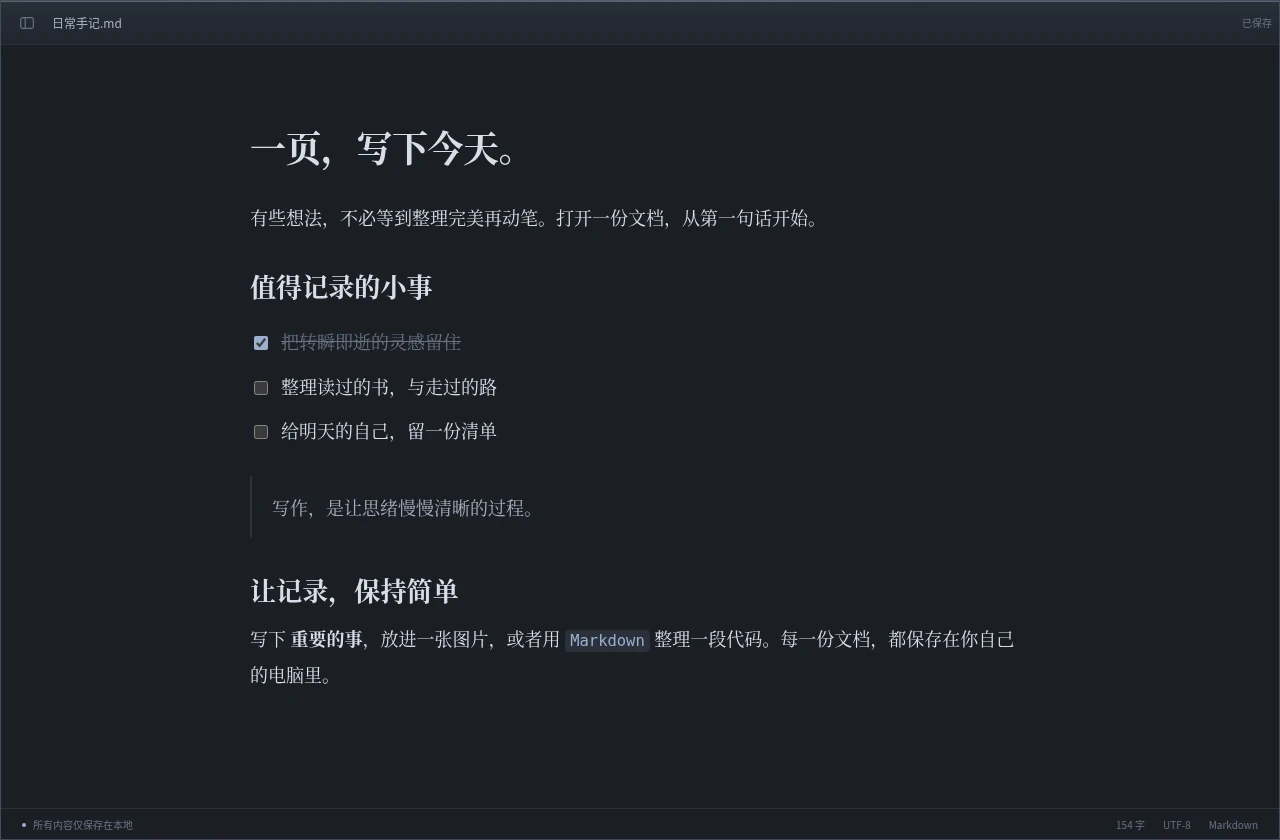
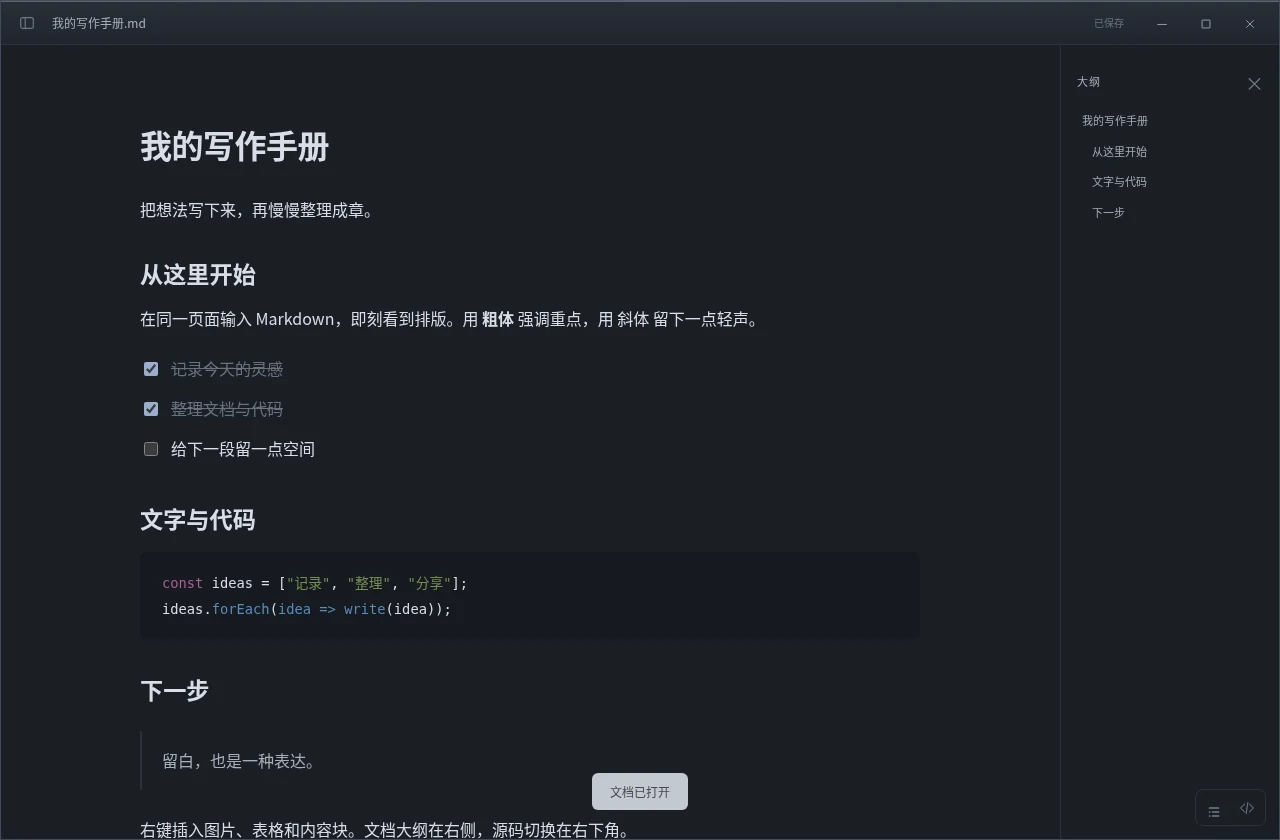
Update Windows 0.8.0 downloads and workspace previews

diff --git a/index.html b/index.html
@@ -4,7 +4,7 @@
   <meta charset="UTF-8">
   <meta name="viewport" content="width=device-width, initial-scale=1">
   <meta name="theme-color" content="#f8f7f3">
-  <meta name="description" content="手书 Tekaku，简洁、离线优先的 Windows 与 Android Markdown 编辑器。边写边呈现，支持图片、表格、代码高亮与多种皮肤。便携下载包约 1.8 MB。">
+  <meta name="description" content="手书 Tekaku，简洁、离线优先的 Windows 与 Android Markdown 编辑器。边写边呈现，支持图片、表格、代码高亮与多种皮肤。便携下载包约 1.9 MB。">
   <meta property="og:type" content="website">
   <meta property="og:title" content="手书 Tekaku · 给想法一张纸">
   <meta property="og:description" content="轻一点的 Markdown 编辑器。打开，写下，保存。在 Windows 和 Android 上写作，文档留在本地。">
@@ -54,11 +54,11 @@
 
   <main id="main">
     <section class="hero container" aria-labelledby="hero-title">
-      <a class="release-pill" href="#release"><span class="release-dot" aria-hidden="true"></span><span>0.7.0 已发布</span><span class="pill-divider"></span><span>手机也能，随手写</span><span aria-hidden="true">↗</span></a>
+      <a class="release-pill" href="#release"><span class="release-dot" aria-hidden="true"></span><span>0.8.0 已发布</span><span class="pill-divider"></span><span>右键插入，顺手编辑</span><span aria-hidden="true">↗</span></a>
       <h1 id="hero-title">给想法，<span class="hero-accent">一张纸。<svg viewBox="0 0 360 17" aria-hidden="true"><path d="M4 11C88 2 206 1 354 8M82 15c97-7 176-9 250-4"/></svg></span></h1>
       <p class="hero-description">一个轻巧、安静的 Markdown 编辑器。<br>边写边呈现，让注意力回到文字本身。</p>
       <div class="hero-actions">
-        <a class="button button-dark" href="https://github.com/Linkyyy/tekaku/raw/refs/heads/downloads/windows-v0.7.0/Tekaku-0.7.0-windows-x64.zip" data-download><svg aria-hidden="true" class="icon"><use href="#i-windows"/></svg>免费下载 Windows 版<svg class="icon button-arrow"><use href="#i-down"/></svg></a>
+        <a class="button button-dark" href="https://github.com/Linkyyy/tekaku/raw/refs/heads/downloads/windows-v0.8.0/Tekaku-0.8.0-windows-x64.zip" data-download><svg aria-hidden="true" class="icon"><use href="#i-windows"/></svg>免费下载 Windows 版<svg class="icon button-arrow"><use href="#i-down"/></svg></a>
         <a class="button button-light" data-android-download href="https://github.com/Linkyyy/tekaku/raw/refs/heads/downloads/android-v0.1.0/Tekaku-0.1.0-android.apk">下载 Android APK <span aria-hidden="true">↓</span></a>
       </div>
       <p class="download-meta">Windows 10 / 11 x64 · Android 8.0+ · 文档留在本机</p>
@@ -66,12 +66,12 @@
       <figure class="hero-preview" id="editor-preview">
         <div class="preview-topline"><span><span class="small-mark" aria-hidden="true"><svg aria-hidden="true" class="icon"><use href="#i-asterisk"/></svg></span> 少一点界面，多一点写作。</span><span class="mono">YOUR WORDS, YOUR SPACE.</span></div>
         <div class="screenshot-frame"><img src="./assets/editor-white.webp" alt="手书真实编辑器界面：同一页面内编辑标题、待办清单、引用和 Markdown 内容" width="1280" height="840" fetchpriority="high"></div>
-        <figcaption><span class="caption-dot" aria-hidden="true"></span>真实软件界面<span class="caption-divider" aria-hidden="true">/</span>默认收起侧栏，随时展开工具<span class="preview-caption-right">手书 · Tekaku</span></figcaption>
+        <figcaption><span class="caption-dot" aria-hidden="true"></span>真实软件界面<span class="caption-divider" aria-hidden="true">/</span>右侧大纲，右键插入内容<span class="preview-caption-right">手书 · Tekaku</span></figcaption>
       </figure>
     </section>
 
     <div class="principles container" aria-label="产品特点">
-      <div><span class="principle-number">01</span><p><strong>轻装上阵</strong><span>Windows 约 1.8 MB，Android 约 235 KB。</span></p></div>
+      <div><span class="principle-number">01</span><p><strong>轻装上阵</strong><span>Windows 约 1.9 MB，Android 约 235 KB。</span></p></div>
       <div><span class="principle-number">02</span><p><strong>本地为先</strong><span>无需账号，文档留在自己的电脑。</span></p></div>
       <div><span class="principle-number">03</span><p><strong>自由带走</strong><span>保存为 .md，让内容属于你。</span></p></div>
     </div>
@@ -105,7 +105,7 @@
         <article><svg aria-hidden="true" class="icon"><use href="#i-image"/></svg><h3>图片，轻松放进来</h3><p>选择、拖入或粘贴。保存时自动整理本地附件，另存为也能带走图片。</p></article>
         <article><svg aria-hidden="true" class="icon"><use href="#i-table"/></svg><h3>表格，让信息有序</h3><p>增删行列、切换表头，用清楚的结构整理计划与项目进度。</p></article>
         <article><svg aria-hidden="true" class="icon"><use href="#i-code"/></svg><h3>代码，也清晰好读</h3><p>26 项代码语言选项，支持整行缩进、复制、自动换行与源码编辑。</p></article>
-        <article><svg aria-hidden="true" class="icon"><use href="#i-search"/></svg><h3>找到，再改好</h3><p>全文查找替换与标题大纲，长文档也能快速定位，轻松修改。</p></article>
+        <article><svg aria-hidden="true" class="icon"><use href="#i-search"/></svg><h3>找到，再改好</h3><p>全文查找替换与右侧独立大纲，长文档也能快速定位。</p></article>
         <article><svg aria-hidden="true" class="icon"><use href="#i-export"/></svg><h3>换一种方式分享</h3><p>保存 Markdown，导出 HTML，或通过系统打印窗口保存为 PDF。</p></article>
         <article><svg aria-hidden="true" class="icon"><use href="#i-lock"/></svg><h3>离线，也安心</h3><p>无需登录即可编辑，草稿在本机恢复。手书不会上传你的文档。</p></article>
       </div>
@@ -148,23 +148,23 @@
       <div class="faq-heading"><p class="eyebrow"><span></span> GOOD TO KNOW</p><h2 id="faq-title">还有一些，<br>你可能想知道。</h2><a class="text-link" href="https://github.com/Linkyyy/tekaku/issues" target="_blank" rel="noopener noreferrer">反馈问题 <span aria-hidden="true">↗</span></a></div>
       <div class="faq-list">
         <details><summary>支持哪些系统？需要安装吗？<svg aria-hidden="true" class="icon"><use href="#i-plus"/></svg></summary><div class="faq-answer"><p>目前提供 Windows 10 / 11 x64 便携版和 Android 8.0+ APK。Windows 版完整解压后运行 Tekaku.exe，保留同目录的 WebView2Loader.dll。需要系统的 <a href="https://developer.microsoft.com/microsoft-edge/webview2/" target="_blank" rel="noopener noreferrer">Microsoft Edge WebView2 Runtime</a>，Windows 11 通常已自带。无需安装 Go、Node.js 或 .NET。Android 版需要较新的系统 WebView；暂不提供 iPhone、macOS 和 Linux 版本。</p></div></details>
-        <details><summary>1.8 MB 是运行内存吗？<svg aria-hidden="true" class="icon"><use href="#i-plus"/></svg></summary><div class="faq-answer"><p>1.8 MB 是便携 ZIP 下载包的大小，程序本体约 4.2 MB，另附约 135 KB 的 SDK 加载器 DLL。手书使用系统 WebView2，不随包附带完整浏览器。运行内存会随文档大小和 WebView2 版本变化，需要合计程序及 WebView2 子进程；目前没有提供 Windows 实机内存测量值。</p></div></details>
+        <details><summary>1.9 MB 是运行内存吗？<svg aria-hidden="true" class="icon"><use href="#i-plus"/></svg></summary><div class="faq-answer"><p>1.9 MB 是便携 ZIP 下载包的大小，程序本体约 4.5 MB，另附约 135 KB 的 SDK 加载器 DLL。手书使用系统 WebView2，不随包附带完整浏览器。运行内存会随文档大小和 WebView2 版本变化，需要合计程序及 WebView2 子进程；目前没有提供 Windows 实机内存测量值。</p></div></details>
         <details><summary>文件和图片保存在哪里？<svg aria-hidden="true" class="icon"><use href="#i-plus"/></svg></summary><div class="faq-answer"><p>Windows 的 Markdown 文件保存在你选择的位置，新插入图片在保存时写入同目录的「文档名.assets」文件夹。移动或分享文档时，请一起带上这个文件夹。Windows 草稿和设置保存在 %APPDATA%\Tekaku。Android 图片内嵌于 Markdown，草稿位于应用私有目录。草稿不能代替保存原文件。</p></div></details>
         <details><summary>可以完全离线使用吗？<svg aria-hidden="true" class="icon"><use href="#i-plus"/></svg></summary><div class="faq-answer"><p>安装好系统 WebView2 后，编辑、保存、本地图片和 HTML 导出均可离线使用，无需登录。手书不会上传文档。插入网络图片或主动打开网页链接时，会访问对应的网络地址。</p></div></details>
         <details><summary>支持所有 Markdown 扩展吗？<svg aria-hidden="true" class="icon"><use href="#i-plus"/></svg></summary><div class="faq-answer"><p>支持标题、列表、待办、引用、链接、图片、GFM 表格、文字高亮和代码块等常用内容。暂未提供公式排版、Mermaid 渲染、脚注及 YAML front matter 专用编辑。导入导出会规范化 Markdown，复杂文档建议先另存为。Windows 文档/图片上限分别为 8/5 MiB；Android 分别为 2/1 MiB。</p></div></details>
-        <details><summary>为什么提示「下载不常见」或「未知发布者」？<svg aria-hidden="true" class="icon"><use href="#i-plus"/></svg></summary><div class="faq-answer"><p>当前 EXE 未签名，下载信誉也需要积累，因此浏览器或 Windows 可能显示这类提示；它不等同于已检出病毒。0.7.0 已完成 ClamAV 扫描并未检出，但没有 Windows Defender 实机检测结论。可查看 <a href="https://github.com/Linkyyy/tekaku/blob/downloads/windows-v0.7.0/RELEASE-CHECK.md" target="_blank" rel="noopener noreferrer">安全检查记录</a>，并核对下载哈希。</p></div></details>
+        <details><summary>为什么提示「下载不常见」或「未知发布者」？<svg aria-hidden="true" class="icon"><use href="#i-plus"/></svg></summary><div class="faq-answer"><p>当前 EXE 未签名，下载信誉也需要积累，因此浏览器或 Windows 可能显示这类提示；它不等同于已检出病毒。0.8.0 已完成 ClamAV 扫描并未检出，但没有 Windows Defender 实机检测结论。可查看 <a href="https://github.com/Linkyyy/tekaku/blob/downloads/windows-v0.8.0/RELEASE-CHECK.md" target="_blank" rel="noopener noreferrer">安全检查记录</a>，并核对下载哈希。</p></div></details>
       </div>
     </section>
 
     <section class="download-section container" id="download" aria-labelledby="download-title">
       <div class="download-panel">
-        <div class="download-copy"><p class="eyebrow"><span></span> LESS FRICTION, MORE WORDS</p><h2 id="download-title">下一句话，<br>从这里开始。</h2><p>把好工具留在手边，把好想法留在纸上。</p><a class="button button-paper" href="https://github.com/Linkyyy/tekaku/raw/refs/heads/downloads/windows-v0.7.0/Tekaku-0.7.0-windows-x64.zip" data-download><svg aria-hidden="true" class="icon"><use href="#i-windows"/></svg>下载手书 Windows 版<svg class="icon button-arrow"><use href="#i-down"/></svg></a><span class="download-panel-meta">v0.7.0 · Windows 10 / 11 x64 · ZIP 约 1.8 MB</span></div>
+        <div class="download-copy"><p class="eyebrow"><span></span> LESS FRICTION, MORE WORDS</p><h2 id="download-title">下一句话，<br>从这里开始。</h2><p>把好工具留在手边，把好想法留在纸上。</p><a class="button button-paper" href="https://github.com/Linkyyy/tekaku/raw/refs/heads/downloads/windows-v0.8.0/Tekaku-0.8.0-windows-x64.zip" data-download><svg aria-hidden="true" class="icon"><use href="#i-windows"/></svg>下载手书 Windows 版<svg class="icon button-arrow"><use href="#i-down"/></svg></a><span class="download-panel-meta">v0.8.0 · Windows 10 / 11 x64 · ZIP 约 1.9 MB</span></div>
         <div class="download-art" aria-hidden="true"><div class="art-page page-back"></div><div class="art-page page-front"><span class="art-seal">手</span><span class="art-rule art-rule-title"></span><span class="art-rule"></span><span class="art-rule"></span><span class="art-rule art-rule-short"></span><span class="art-asterisk"><svg aria-hidden="true" class="icon"><use href="#i-asterisk"/></svg></span><span class="art-page-footer">TEKAKU<span>01</span></span></div><span class="art-caption">JUST YOU & YOUR WORDS.</span></div>
       </div>
-      <div class="download-details"><p>依赖系统 WebView2 Runtime · 解压后双击运行 · 无需账号</p><details class="checksum-details"><summary>查看下载包 SHA-256 <span aria-hidden="true">＋</span></summary><div class="checksum-content"><code id="checksum">5025d5a50b2093c43a462a59ae2490b214895cfc4cbfaf9e9cfd2072d28360a8</code><button id="copy-checksum" type="button">复制</button><span id="copy-status" class="sr-only" role="status"></span></div></details></div>
+      <div class="download-details"><p>依赖系统 WebView2 Runtime · 解压后双击运行 · 无需账号</p><details class="checksum-details"><summary>查看下载包 SHA-256 <span aria-hidden="true">＋</span></summary><div class="checksum-content"><code id="checksum">d46f9148064e5a4d4318beeb3a99c22fbc3c428291775f0c4501a5221f623d18</code><button id="copy-checksum" type="button">复制</button><span id="copy-status" class="sr-only" role="status"></span></div></details></div>
     </section>
 
-    <section class="release-section container" id="release" aria-labelledby="release-title"><div><span class="release-dot" aria-hidden="true"></span><h2 id="release-title">最近更新</h2><span class="version-label">v0.7.0</span></div><p>新增 Android 手机版；Windows 支持八向边框缩放和拖入 Markdown 打开，保留未保存确认。</p><a href="https://github.com/Linkyyy/tekaku/tree/downloads/windows-v0.7.0" target="_blank" rel="noopener noreferrer">查看版本说明 <span aria-hidden="true">↗</span></a></section>
+    <section class="release-section container" id="release" aria-labelledby="release-title"><div><span class="release-dot" aria-hidden="true"></span><h2 id="release-title">最近更新</h2><span class="version-label">v0.8.0</span></div><p>PC 新增右侧大纲、右下角源码切换、右键编辑与插入；加入程序图标和 Markdown 打开方式，优化全屏边界与快捷键指南。</p><a href="https://github.com/Linkyyy/tekaku/tree/downloads/windows-v0.8.0" target="_blank" rel="noopener noreferrer">查看版本说明 <span aria-hidden="true">↗</span></a></section>
   </main>
 
   <footer class="site-footer container"><a class="brand" href="#" aria-label="返回手书首页"><span class="brand-seal" aria-hidden="true">手</span><span class="brand-name">手书<span class="brand-english">Tekaku</span></span></a><p>给文字一点空间。</p><div><a href="https://github.com/Linkyyy/tekaku/tree/gh-pages" target="_blank" rel="noopener noreferrer">官网源码 ↗</a><a href="https://github.com/Linkyyy/tekaku/issues" target="_blank" rel="noopener noreferrer">问题反馈 ↗</a><a href="#download">下载 ↓</a></div></footer>

diff --git a/README.md b/README.md
@@ -42,20 +42,22 @@ python3 -m http.server 8080
 
 ## 下载与维护
 
-- [Windows v0.7.0 便携包（约 1.8 MB）](https://github.com/Linkyyy/tekaku/raw/refs/heads/downloads/windows-v0.7.0/Tekaku-0.7.0-windows-x64.zip)
-- [版本说明](https://github.com/Linkyyy/tekaku/tree/downloads/windows-v0.7.0)
[1 lines of base64/hex data omitted]
+- [Windows v0.8.0 便携包（约 1.9 MB）](https://github.com/Linkyyy/tekaku/raw/refs/heads/downloads/windows-v0.8.0/Tekaku-0.8.0-windows-x64.zip)
+- [版本说明](https://github.com/Linkyyy/tekaku/tree/downloads/windows-v0.8.0)
[1 lines of base64/hex data omitted]
 
 新版本发布时，更新 `index.html` 中的版本号、下载链接、体积、最近更新内容和 SHA-256，以及本说明。替换皮肤截图时保留 `assets/editor-{white,paper,sage,night}.webp` 文件名。分享预览图使用 gh-pages 分支上的公开图片地址，不依赖 GitHub Pages 域名；确定正式域名后也可换成站点自身的绝对地址。
 
-桌面端使用系统 WebView2，支持 Windows 10 / 11 x64。1.8 MB 是 ZIP 体积，非内存占用；官网 FAQ 已注明依赖、图片附件移动方式、未签名和 Markdown 支持范围。
+桌面端使用系统 WebView2，支持 Windows 10 / 11 x64。1.9 MB 是 ZIP 体积，非内存占用；官网 FAQ 已注明依赖、图片附件移动方式、未签名和 Markdown 支持范围。
 
-## 0.7.0 安全检查
+## 0.8.0 安全检查
 
-用户反馈的“下载不常见”属于下载信誉提示。EXE 仍未签名，不能承诺提示消失。扫描和校验记录见 [安全检查说明](https://github.com/Linkyyy/tekaku/blob/downloads/windows-v0.7.0/SECURITY-CHECK.md)。[应用源码](https://github.com/Linkyyy/tekaku/tree/main)可复核。下载包应完整解压，保留 EXE 和 WebView2Loader.dll 在同一目录。
+用户反馈的“下载不常见”属于下载信誉提示。EXE 仍未签名，不能承诺提示消失。扫描和校验记录见 [安全检查说明](https://github.com/Linkyyy/tekaku/blob/downloads/windows-v0.8.0/SECURITY-CHECK.md)。[应用源码](https://github.com/Linkyyy/tekaku/tree/main)可复核。下载包应完整解压，保留 EXE 和 WebView2Loader.dll 在同一目录。
 
 ## Android 手机版
 
 官网已新增 Android 版介绍、真实编辑界面截图及 [APK 下载](https://github.com/Linkyyy/tekaku/raw/refs/heads/downloads/android-v0.1.0/Tekaku-0.1.0-android.apk)。APK 约 235 KB，支持 Android 8.0+ 和较新的系统 WebView。[使用与构建说明](https://github.com/Linkyyy/tekaku/blob/downloads/android-v0.1.0/ANDROID.md)。
 
 Vercel 一键创建的独立仓库 `Linkyyy/tekaku-website` 以 main 为网站源；上游官网源为本仓库 gh-pages。发布时两者同步，网站无需 npm 构建。
+
+Windows 0.8.0：右侧独立大纲、右下角源码图标、分组右键菜单、多尺寸程序图标、当前用户 Markdown 打开方式、全屏边界修正及分组快捷键指南。Android APK 保持 0.1.0 不变。
